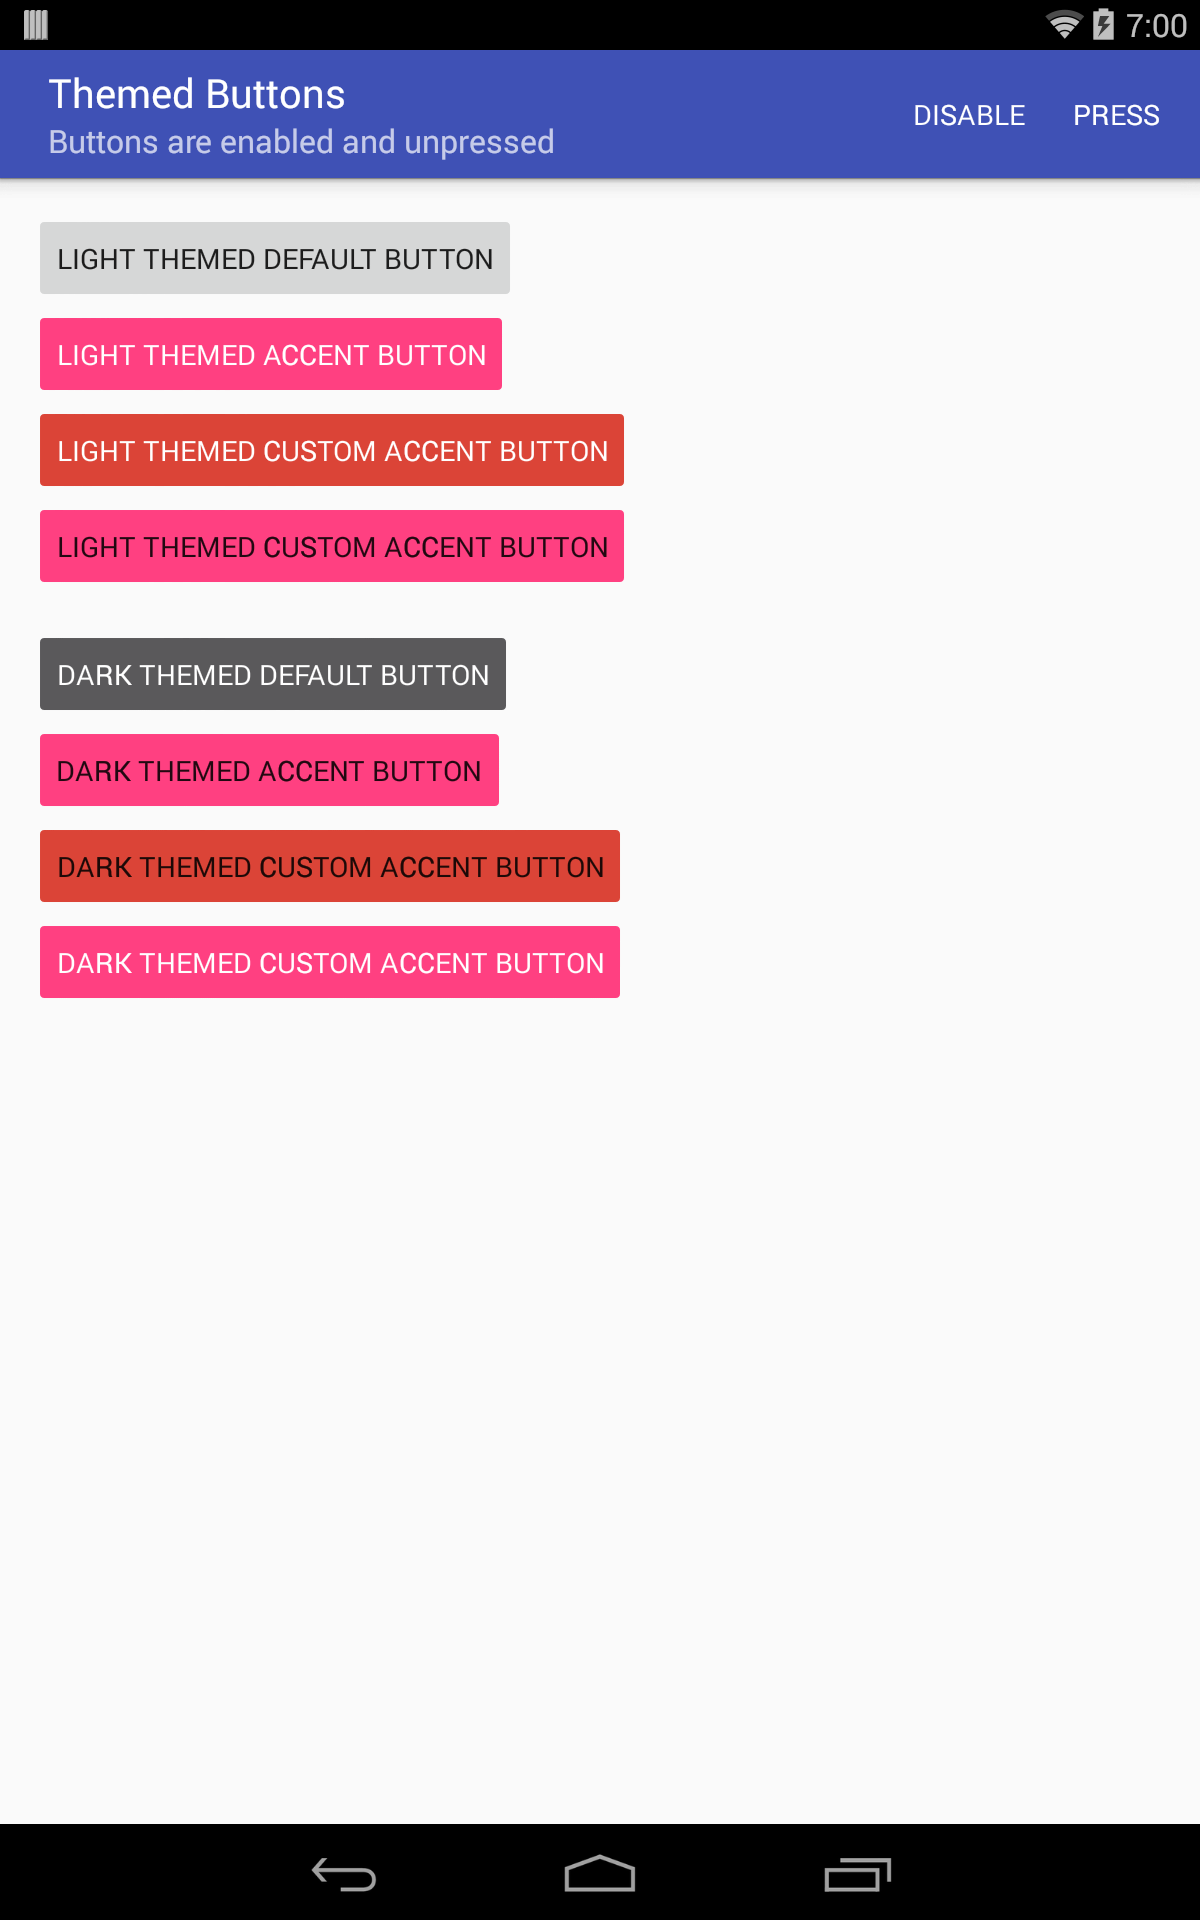
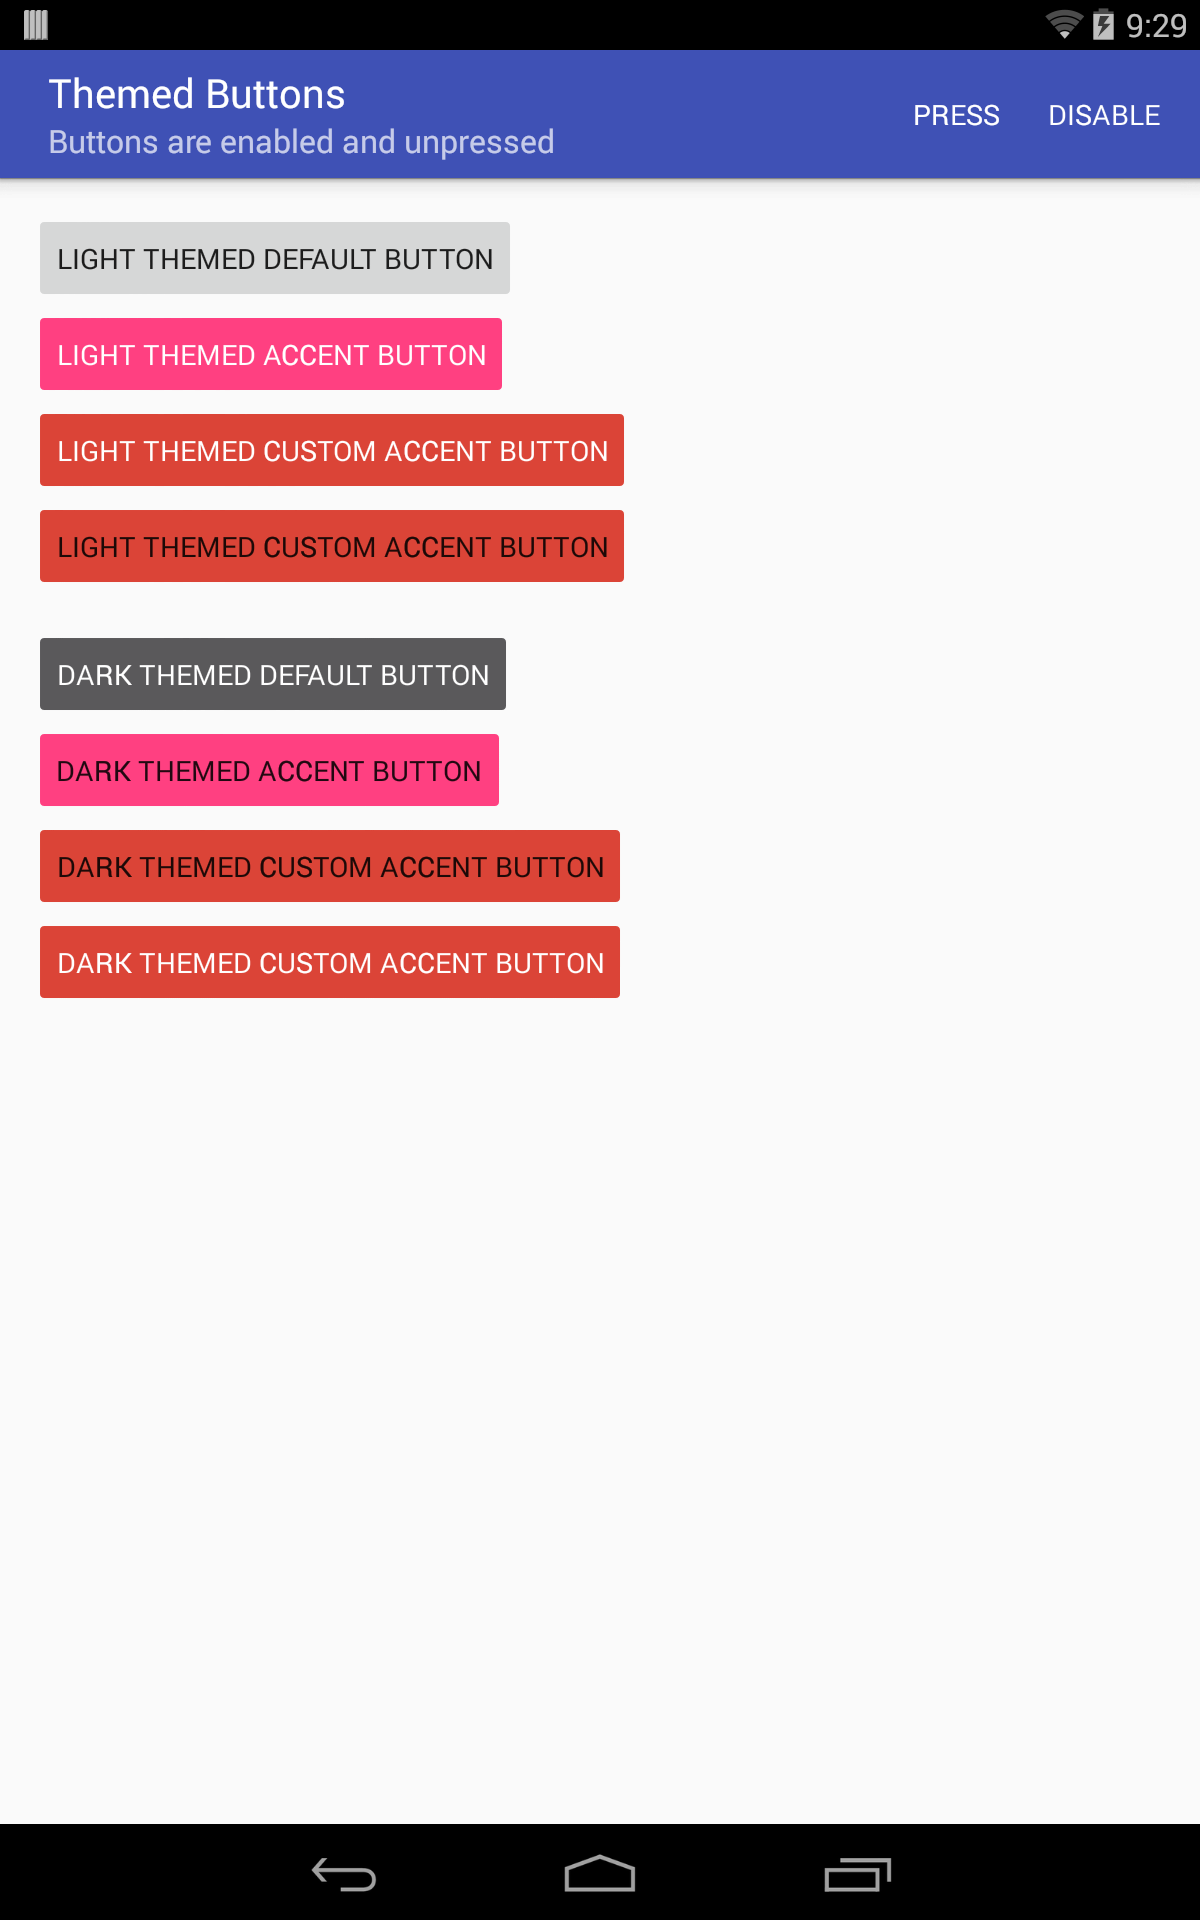
updated solution screenshots

diff --git a/_posts/2016-08-08-theming-buttons-with-themeoverlays-background-tints.md b/_posts/2016-08-08-theming-buttons-with-themeoverlays-background-tints.md
@@ -386,10 +386,10 @@ See the below links to view screenshots of the solutions:
 
 * [API 19, default state](/assets/images/posts/2016/08/08/themed-buttons-enabled-unpressed-19.png)
 * [API 19, pressed state](/assets/images/posts/2016/08/08/themed-buttons-enabled-pressed-19.png)
-* [API 19, disabled state](/assets/images/posts/2016/08/08/themed-buttons-disabled-unpressed-19.png)
+* [API 19, disabled state](/assets/images/posts/2016/08/08/themed-buttons-disabled-19.png)
 * [API 23, default state](/assets/images/posts/2016/08/08/themed-buttons-enabled-unpressed-23.png)
 * [API 23, pressed state](/assets/images/posts/2016/08/08/themed-buttons-enabled-pressed-23.png)
-* [API 23, disabled state](/assets/images/posts/2016/08/08/themed-buttons-disabled-unpressed-23.png)
+* [API 23, disabled state](/assets/images/posts/2016/08/08/themed-buttons-disabled-23.png)
 
 **TODO(alockwood): mention the colored disabled button bug [here][ColoredButtonDisabledTextBug]**<br>
 **TODO(alockwood): add foot note to Dan Lew's blog post about view constructors**<br>
@@ -397,7 +397,6 @@ See the below links to view screenshots of the solutions:
 **TODO(alockwood): footnote explaining why/when it is necessary to use `AppCompatResources`? link to previous blog post?**<br>
 **TODO(alockwood): TALK ABOUT OTHER WAYS THIS APPROACH IS USEFUL! (example: using a ThemeOverlay to modify `android:colorEdgeEffect`)**<br>
 **TODO(alockwood): footnote about difference between android.R.attr and R.attr?**<br>
-**TODO(alockwood): update the solution screenshots!**
 
 As always, thanks for reading! Feel free to leave a comment if you have any questions,
 and don't forget to +1 and/or share this blog post if you found it helpful! And check out the
